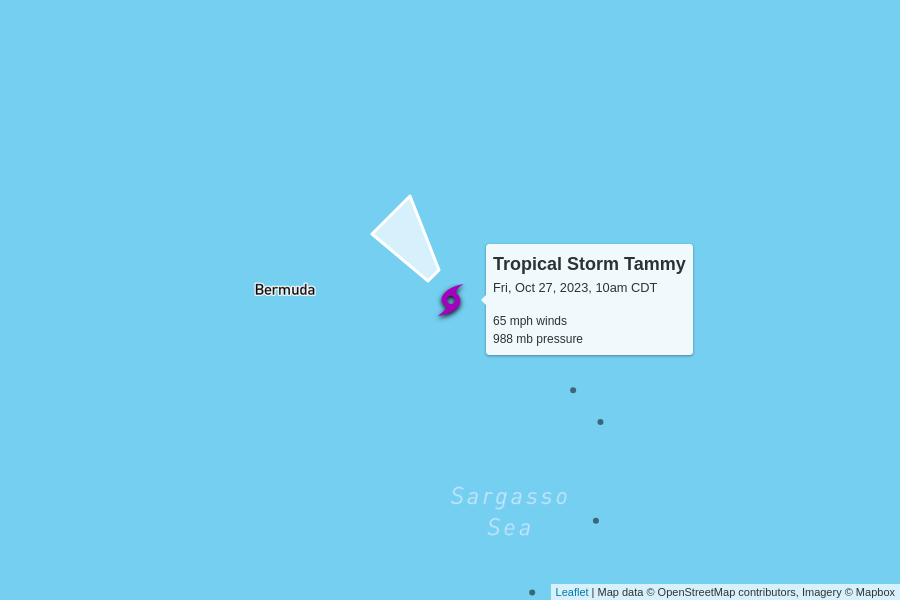
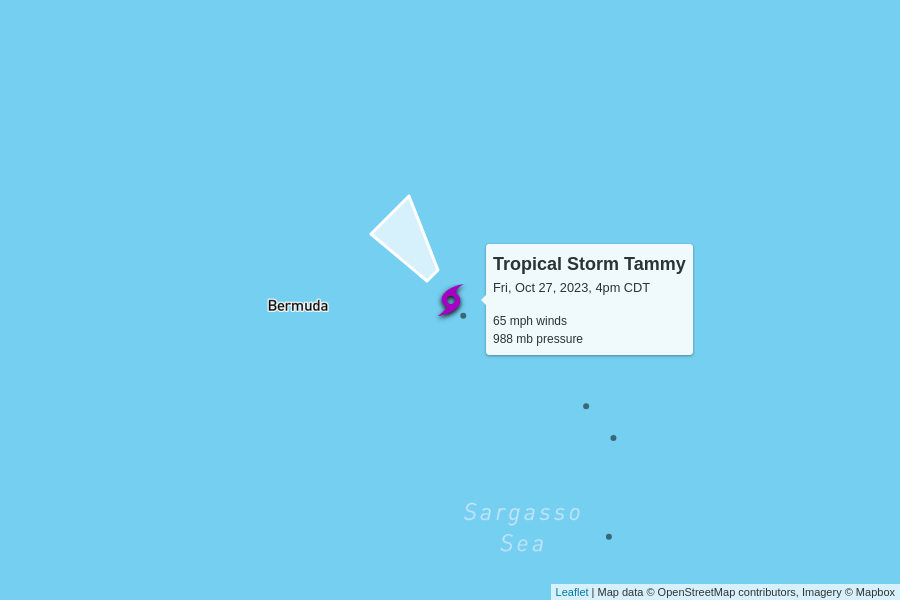
automatic update

diff --git a/docs/index.html b/docs/index.html
@@ -102,7 +102,7 @@
         <td colspan="6" class="storm category-0" >
           <h2>
             Tropical Storm Tammy
-            <p class="updated">last updated <span data-time>2023-10-27T15:00:00.000Z</span></p>
+            <p class="updated">last updated <span data-time>2023-10-27T21:00:00.000Z</span></p>
           </h2>
         </td>
       </tr>
@@ -117,8 +117,8 @@
       </tr>
       <tr>
         <td class="spacer"></td>
-        <td>65 mph<br>-20 mph since last update</td>
-        <td>988 mb<br>+15 mb since last update</td>
+        <td>65 mph<br>0 mph since last update</td>
+        <td>988 mb<br>0 mb since last update</td>
         <td>
           3 mph to the northwest
           <br/>
